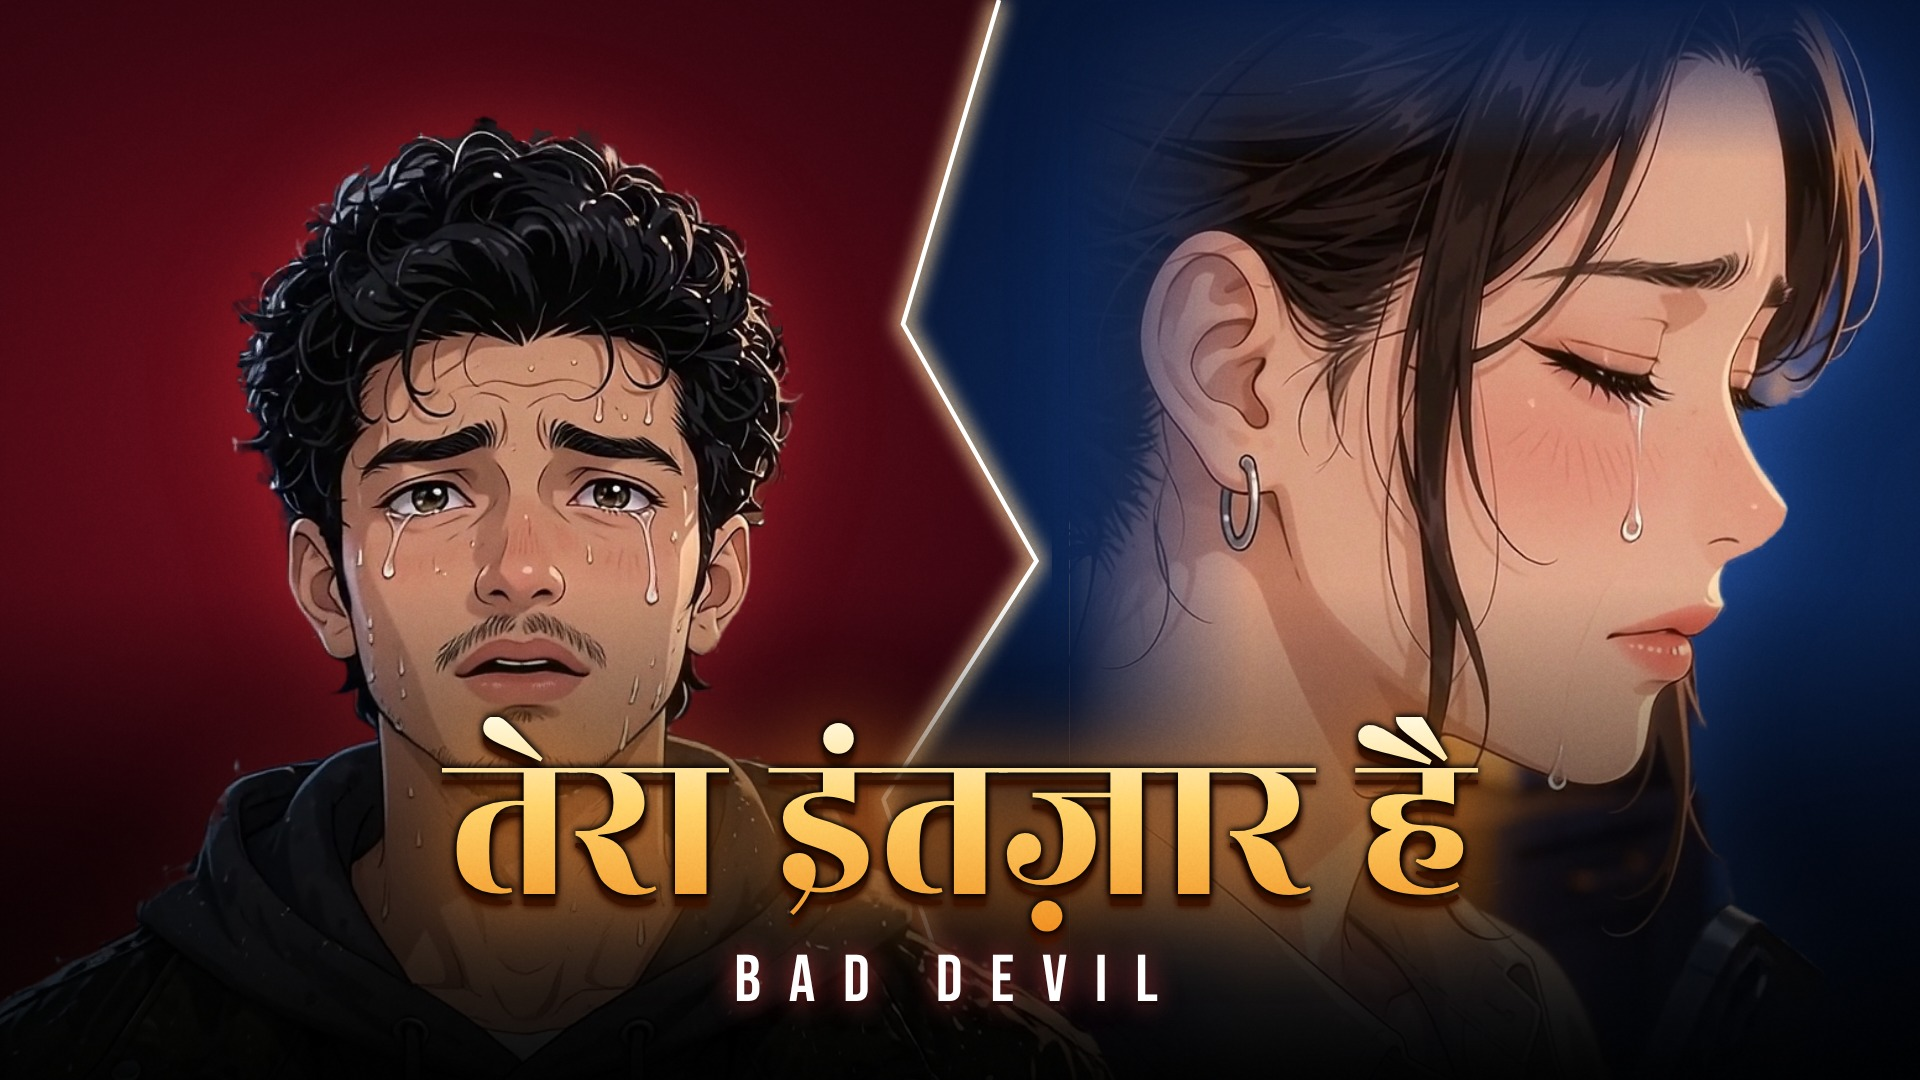
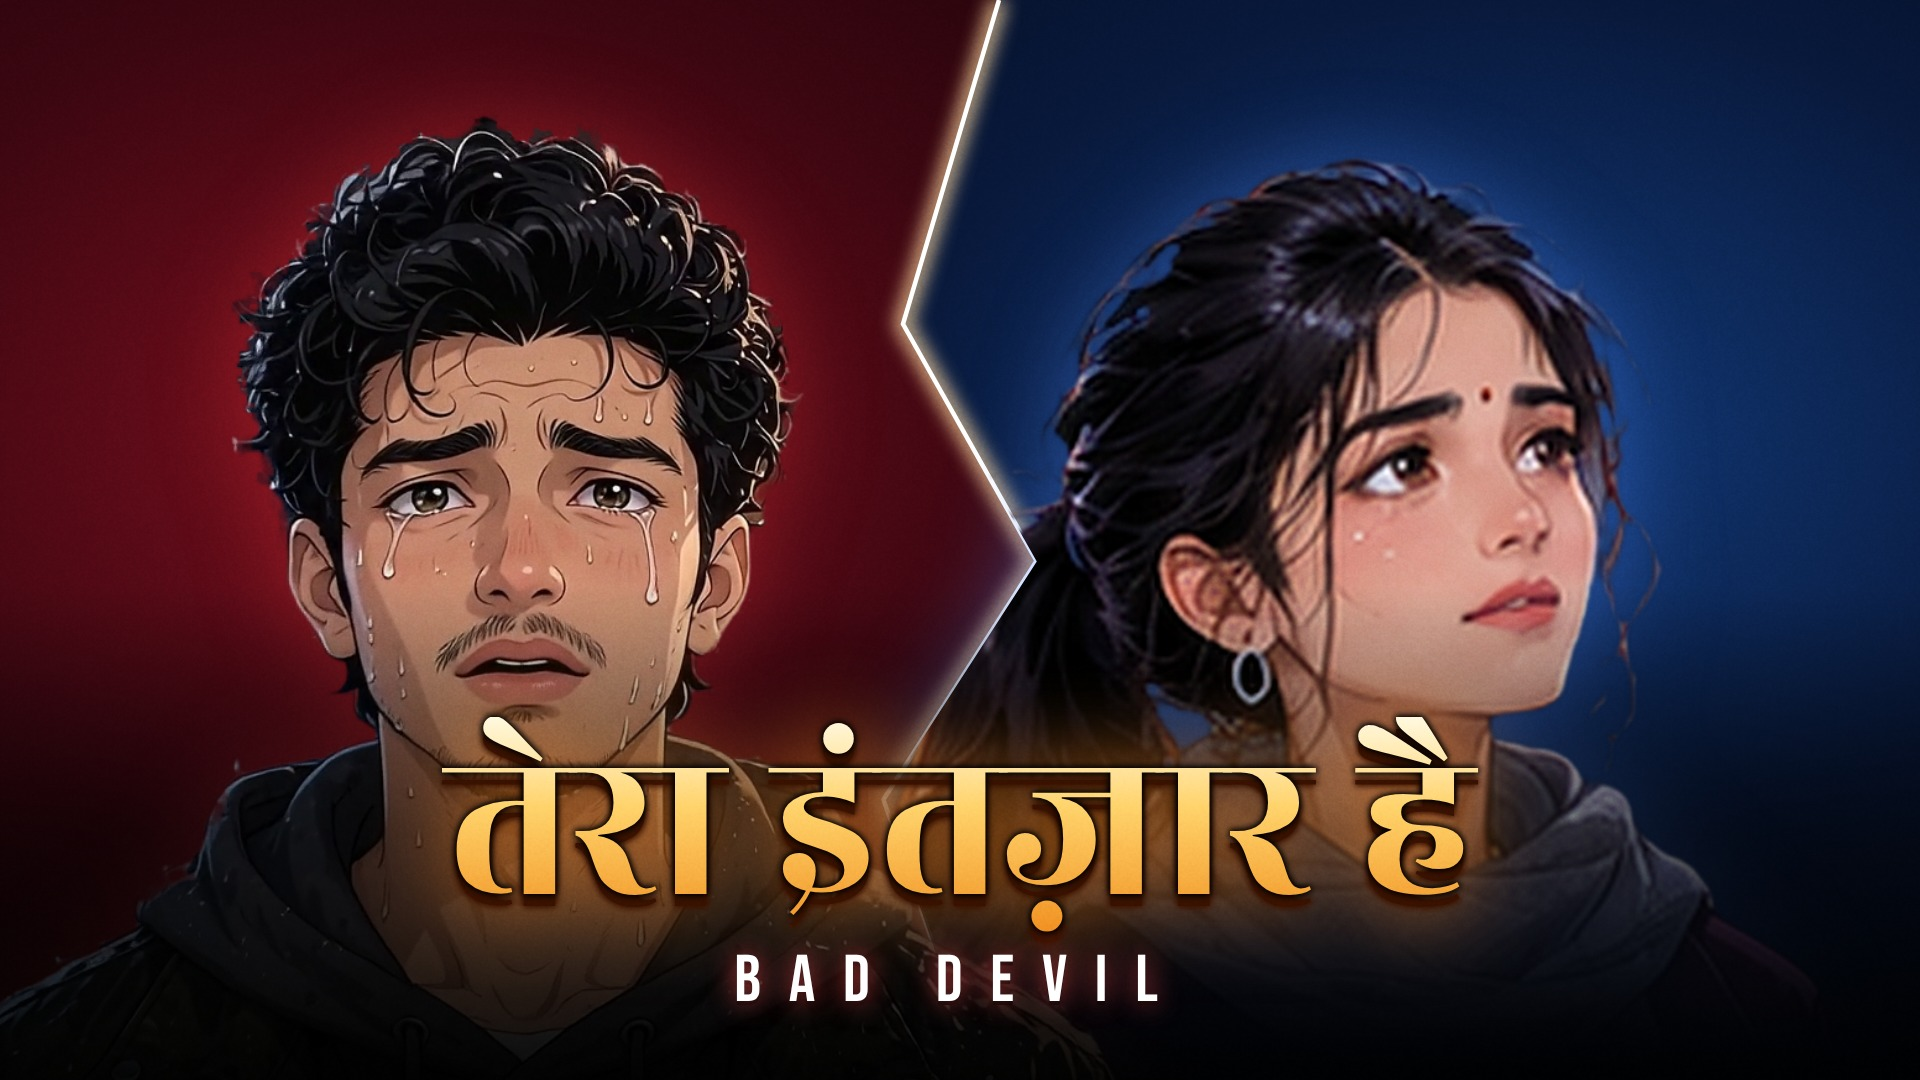
Rework Toota Dil thumbnail: matched face sizes, cleaner girl cutout
Claude-Session: https://claude.ai/code/session_017dD9umPcrcPTaToqqfxVzK

Changed region(s): [[0.4688, 0.0, 1.0, 0.9167], [0.4688, 0.7333, 0.5, 0.7639]]

diff --git a/video-demo/thumbnails/v2/source/d1a.html b/video-demo/thumbnails/v2/source/d1a.html
@@ -1,0 +1,23 @@
+<!doctype html><html><head><meta charset="utf-8"><link rel="stylesheet" href="base.css"><style>
+.L { position:absolute; inset:0; background: radial-gradient(ellipse 70% 90% at 22% 40%, #7a0f1d 0%, #3a0610 45%, #0b0204 100%); clip-path: polygon(0 0,52% 0,47% 30%,54% 52%,46% 74%,51% 100%,0 100%); }
+.R { position:absolute; inset:0; background: radial-gradient(ellipse 70% 90% at 78% 40%, #123a7a 0%, #08183a 45%, #020510 100%); clip-path: polygon(52% 0,100% 0,100% 100%,51% 100%,46% 74%,54% 52%,47% 30%); }
+svg { position:absolute; inset:0; }
+.boy { height: 880px; left: -95px; bottom: -235px;  -webkit-mask-image: linear-gradient(to bottom,#000 80%,transparent 100%); }
+.w-boy { position:absolute; inset:0; filter: drop-shadow(0 0 30px rgba(255,60,60,.35)); }
+.shade { position:absolute; left:0; right:0; bottom:0; height:330px; background: linear-gradient(to top, rgba(0,0,0,.95), rgba(0,0,0,.6) 50%, transparent); }
+.title { left:0; width:100%; bottom: 92px; text-align:center; font-size: 150px; color:#fff;
+  background: linear-gradient(180deg,#fff9e0 0%,#ffd36b 40%,#f08c1c 100%); -webkit-background-clip:text; background-clip:text; -webkit-text-fill-color:transparent;
+  filter: drop-shadow(0 0 2px #000) drop-shadow(0 0 2px #000) drop-shadow(0 8px 0 #3a1200) drop-shadow(0 0 28px rgba(255,140,40,.7)); }
+.singer { left:0; width:100%; bottom: 40px; text-align:center; font-size: 44px; color:#fff; text-shadow: 0 0 18px rgba(255,80,80,.8), 0 3px 0 #000; }
+.gpanel { position:absolute; inset:0; clip-path: polygon(52% 0,100% 0,100% 100%,51% 100%,46% 74%,54% 52%,47% 30%); }
+.gglow { position:absolute; inset:0; filter: drop-shadow(0 0 30px rgba(80,140,255,.45)); }
+.girl { position:absolute; height: 810px; left: 536px; top: 135px; -webkit-mask-image: linear-gradient(to bottom, transparent 0, #000 60px, #000 440px, transparent 560px); }
+</style></head><body><div class="stage">
+<div class="L"></div><div class="R"></div>
+<svg viewBox="0 0 1280 720"><defs><filter id="g"><feGaussianBlur stdDeviation="6"/></filter></defs>
+<polyline points="666,0 602,216 691,374 589,533 653,720" fill="none" stroke="#ffd9a0" stroke-width="10" filter="url(#g)" opacity=".9"/>
+<polyline points="666,0 602,216 691,374 589,533 653,720" fill="none" stroke="#fff" stroke-width="3"/></svg>
+<div class="w-boy"><img class="cut boy" src="img/boy_cry2.png"></div><div class="gglow"><div class="gpanel"><img class="girl" src="img/girl_coat3.png"></div></div>
+<div class="shade"></div>
+<div class="a title">तेरा इंतज़ार है</div><div class="a singer">BAD DEVIL</div>
+<div class="grain"></div></div></body></html>

diff --git a/video-demo/thumbnails/v2/source/d1b.html b/video-demo/thumbnails/v2/source/d1b.html
@@ -1,0 +1,23 @@
+<!doctype html><html><head><meta charset="utf-8"><link rel="stylesheet" href="base.css"><style>
+.L { position:absolute; inset:0; background: radial-gradient(ellipse 70% 90% at 22% 40%, #7a0f1d 0%, #3a0610 45%, #0b0204 100%); clip-path: polygon(0 0,52% 0,47% 30%,54% 52%,46% 74%,51% 100%,0 100%); }
+.R { position:absolute; inset:0; background: radial-gradient(ellipse 70% 90% at 78% 40%, #123a7a 0%, #08183a 45%, #020510 100%); clip-path: polygon(52% 0,100% 0,100% 100%,51% 100%,46% 74%,54% 52%,47% 30%); }
+svg { position:absolute; inset:0; }
+.boy { height: 880px; left: -95px; bottom: -235px;  -webkit-mask-image: linear-gradient(to bottom,#000 80%,transparent 100%); }
+.w-boy { position:absolute; inset:0; filter: drop-shadow(0 0 30px rgba(255,60,60,.35)); }
+.shade { position:absolute; left:0; right:0; bottom:0; height:330px; background: linear-gradient(to top, rgba(0,0,0,.95), rgba(0,0,0,.6) 50%, transparent); }
+.title { left:0; width:100%; bottom: 92px; text-align:center; font-size: 150px; color:#fff;
+  background: linear-gradient(180deg,#fff9e0 0%,#ffd36b 40%,#f08c1c 100%); -webkit-background-clip:text; background-clip:text; -webkit-text-fill-color:transparent;
+  filter: drop-shadow(0 0 2px #000) drop-shadow(0 0 2px #000) drop-shadow(0 8px 0 #3a1200) drop-shadow(0 0 28px rgba(255,140,40,.7)); }
+.singer { left:0; width:100%; bottom: 40px; text-align:center; font-size: 44px; color:#fff; text-shadow: 0 0 18px rgba(255,80,80,.8), 0 3px 0 #000; }
+.gpanel { position:absolute; inset:0; clip-path: polygon(52% 0,100% 0,100% 100%,51% 100%,46% 74%,54% 52%,47% 30%); }
+.gglow { position:absolute; inset:0; filter: drop-shadow(0 0 30px rgba(80,140,255,.45)); }
+.girl { position:absolute; height: 1302px; left: 356px; top: 102px; -webkit-mask-image: linear-gradient(to bottom, #000 0, #000 470px, transparent 600px); }
+</style></head><body><div class="stage">
+<div class="L"></div><div class="R"></div>
+<svg viewBox="0 0 1280 720"><defs><filter id="g"><feGaussianBlur stdDeviation="6"/></filter></defs>
+<polyline points="666,0 602,216 691,374 589,533 653,720" fill="none" stroke="#ffd9a0" stroke-width="10" filter="url(#g)" opacity=".9"/>
+<polyline points="666,0 602,216 691,374 589,533 653,720" fill="none" stroke="#fff" stroke-width="3"/></svg>
+<div class="w-boy"><img class="cut boy" src="img/boy_cry2.png"></div><div class="gglow"><div class="gpanel"><img class="girl" src="img/girl_bridge_cut.png"></div></div>
+<div class="shade"></div>
+<div class="a title">तेरा इंतज़ार है</div><div class="a singer">BAD DEVIL</div>
+<div class="grain"></div></div></body></html>
